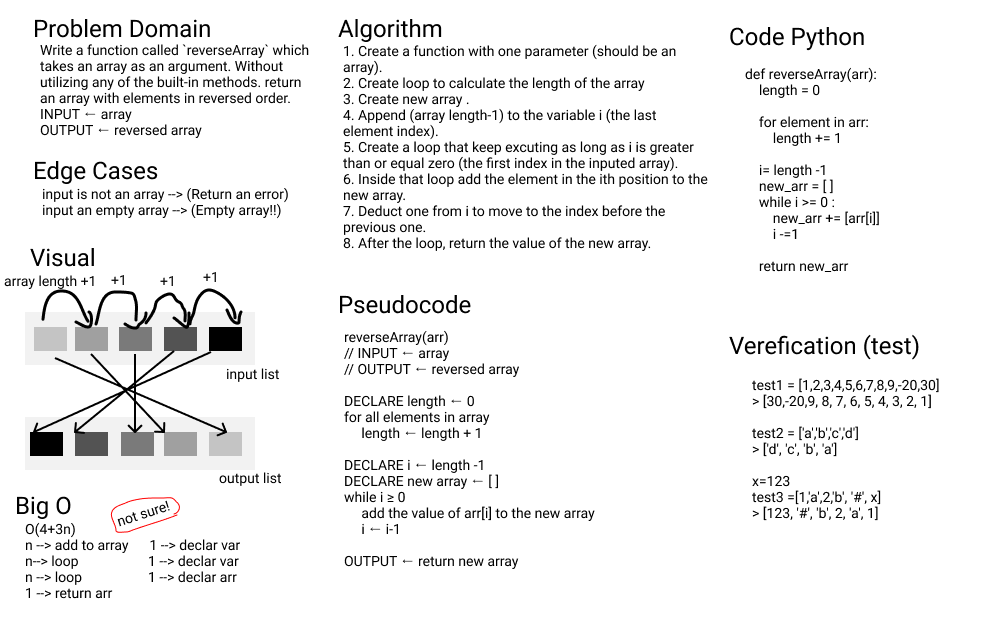
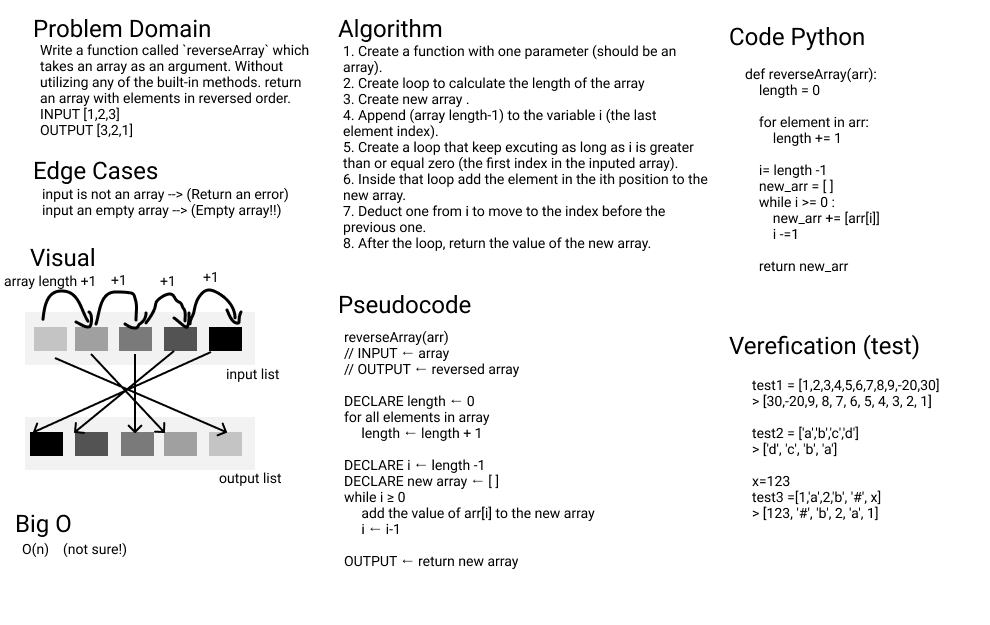
added edge cases and input,output

Changed region(s): [[0.0, 0.7904, 0.1212, 0.9728], [0.1212, 0.7904, 0.2424, 0.9424], [0.0909, 0.152, 0.2121, 0.2128]]

diff --git a/class01-reverse-array/reverse_array.py b/class01-reverse-array/reverse_array.py
@@ -4,7 +4,7 @@ test1 = [1,2,3,4,5,6,7,8,9]
 test2 = ['a','b','c','d']
 test3 =[1,'a',2,'b', '#', x]
 
-def reverseArray(arr):
+def reverse_array(arr):
     length = 0
 
     for element in arr:
@@ -18,6 +18,6 @@ def reverseArray(arr):
         
     return new_arr
 
-print(reverseArray(test1))
-print(reverseArray(test2))
-print(reverseArray(test3))
+print(reverse_array(test1))
+print(reverse_array(test2))
+print(reverse_array(test3))
